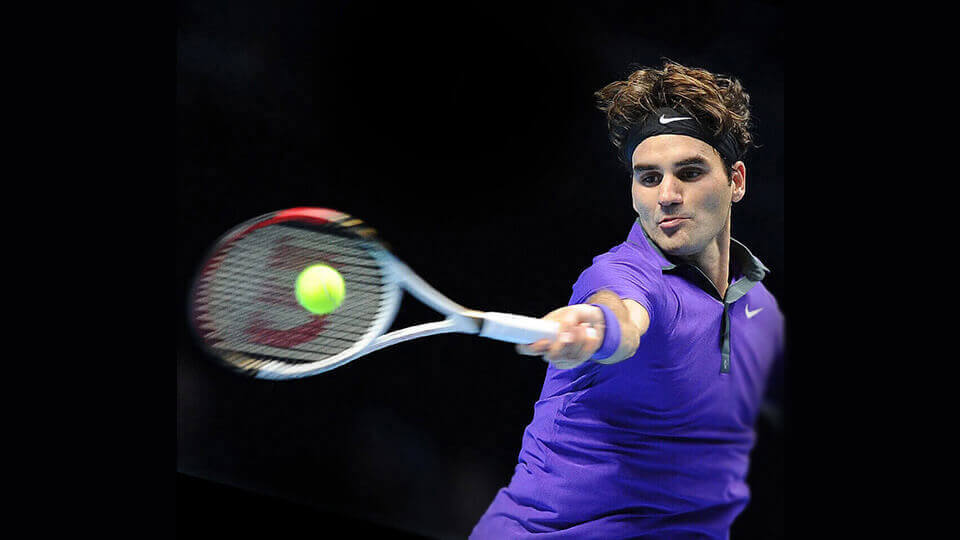
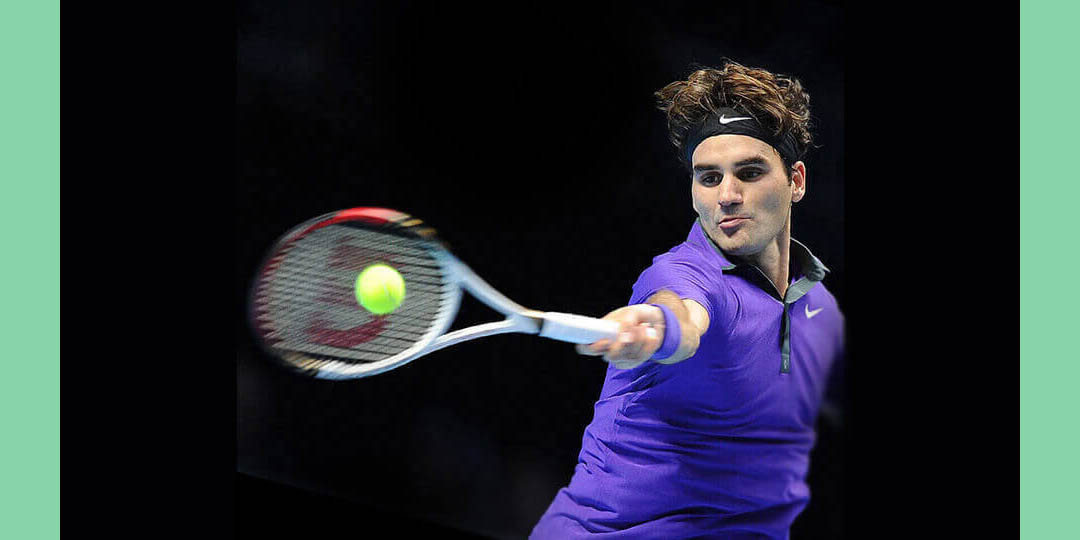
update for Squre VIEW - -m images size change to 1080x540

diff --git a/index.html b/index.html
@@ -169,22 +169,18 @@
                     p2.width = nW;
                     p1.scale.y = p1.scale.x;
                     p2.scale.y = p2.scale.x;
-                    
-                    _dw.pairCase = 0;
-                    
+                    _dw.pcase = 1;
                 }
                 
                 if (giveBin() == 1) {
                     p1.x = _dw.midX;
                     p2.x = _dw.midX - p2.width;
-                    
-                    _dw.pairCase = 1;
-                    
-                    if (_dw.ratio <= 1) {
+                    if (_dw.ratio <= 0.8888888888888888) {
                         var offX = Math.ceil((p1.width - _dw.appW) / 2)
                         p1.x = -offX;
                         p2.x = p2.width;
-                        _dw.pairCase = 11;
+                        _dw.pcase = 2;
+                        
                     }
                     _dw.tl.from(p1, 1.3, {
                         ease: Quint.easeOut,
@@ -199,14 +195,11 @@
                 } else {
                     p2.x = _dw.midX;
                     p1.x = _dw.midX - p1.width;
-                    
-                    _dw.pairCase = 2;
-                    
-                    if (_dw.ratio <= 1) {
+                    if (_dw.ratio <= 0.8888888888888888) {
                         var offX = Math.ceil((p1.width - _dw.appW) / 2)
                         p2.x = -offX;
                         p1.x = p2.width;
-                        _dw.pairCase = 22;
+                        _dw.pcase = 3;
                     }
                     _dw.tl.from(p1, 1.3, {
                         ease: Quint.easeOut,
@@ -227,8 +220,7 @@
                     p2.width = nW;
                     p1.scale.y = p1.scale.x;
                     p2.scale.y = p2.scale.x;
-                    
-                    _dw.pairCase = 3;
+                    _dw.pcase = 4;
                 }
                 if (giveBin() == 1) {
                     var offX = Math.ceil((p1.width - _dw.appW) / 2)
@@ -236,9 +228,7 @@
                     p1.y = _dw.midY - p1.height;
                     p2.x = -offX;
                     p2.y = _dw.midY;
-                    
-                    _dw.pairCase = 31;
-                    
+                    _dw.pcase = 5;
                     _dw.tl.from(p1, 1.3, {
                         ease: Quint.easeOut,
                         x: _dw.appW
@@ -254,9 +244,7 @@
                     p2.y = _dw.midY - p2.height;
                     p1.x = -offX;
                     p1.y = _dw.midY;
-                    
-                     _dw.pairCase = 32;
-                    
+                    _dw.pcase = 6;
                     _dw.tl.from(p1, 1.3, {
                         ease: Quint.easeOut,
                         x: _dw.appW
@@ -279,7 +267,7 @@
             
             _dw.p1 = p1;
             _dw.p2 = p2;
-            
+            console.log('_dw.pcase',_dw.pcase,_dw.scale,_dw.ratio);
             
             
         }
@@ -420,82 +408,26 @@
         
         function ups() {
             
+            var i = 0;
+            
             for(i=0; i<_dw.sl.children.length; i++) {
+                console.log(i)
                 var p = _dw.sl.getChildAt(i);
-                //p.scale.x = _dw.scale;
-                //p.scale.y = _dw.scale;
-                //p.width = nW;
-                //p.scale.x = _dw.scale;
-                //p.scale.y = p2.scale.x;            
-                //console.log(i);
-                
-//                _dw.tl.to(p, 0.5, {
-//                    alpha: 0
-//                })
                 p.alpha = 0;
-            }            
-            
-            
-            //
-//            var p1 =  _dw.p1;
-//            var p2 =  _dw.p2;
-//            
-//            var i = 0;
-//            
-//            var nW = _dw.appW / 2;            
-//
-//            for(i=0; i<_dw.sl.children.length; i++) {
-//                var p = _dw.sl.getChildAt(i);
-//                p.scale.x = _dw.scale;
-//                p.scale.y = _dw.scale;
-//                p.width = nW;
-//                p.scale.x = _dw.scale;
-//                p.scale.y = p2.scale.x;            
-//                //console.log(i);     
-//            }
-//            
-//            if (p1.width < p1.height) {
-//                
-//                if(p1.x < p2.x) {
-//                    p2.x = _dw.midX;
-//                    p1.x = _dw.midX - p1.width;
-//                }
-//                if(p1.x > p2.x) {
-//                    p1.x = _dw.midX;
-//                    p2.x = _dw.midX - p2.width;
-//                }
-//                
-//            }
-            
-            
-            
-            //console.log(_dw.sl.children.length,p1.x, p2.x,p3.x,p4.x);
-            
+            }
             
         }
         
-        
         var resizeTimer;
         window.addEventListener("resize", function() {
-            
 
           clearTimeout(resizeTimer);
           resizeTimer = setTimeout(function() {
 
-            // Run code here, resizing has "stopped"
-            //_dw.sl.alpha = 1;
-              
-             // myAnimation.pause();
-              //sizeChecker();
-              
-              //removeBottomPair()
               _dw.afterResize = true;
               _dw.tl.play(); 
 
-          }, 250);            
-            
-            
-            //_dw.sl.alpha = 0;
+          }, 200);            
             
             ups();
             
@@ -512,8 +444,18 @@
             logo.newScale = logo.width / 1920;
             logo.height = 249 * logo.newScale;
 
+            
+            // THIS IS NOT WORKING WHEN RENDERER SET TO WEBGL
+            // Keep app forceCanvas: true - see below
+                //_dw.app = new PIXI.Application(_dw.appW, _dw.appH, {
+                //    forceCanvas: true,
+                //    backgroundColor: 0x000000
+                //});                        
             _dw.app.view.width = _dw.appW;
             _dw.app.view.height = _dw.appH;
+            
+            
+            //console.log('_dw.scale',_dw.scale);
             
 
             
